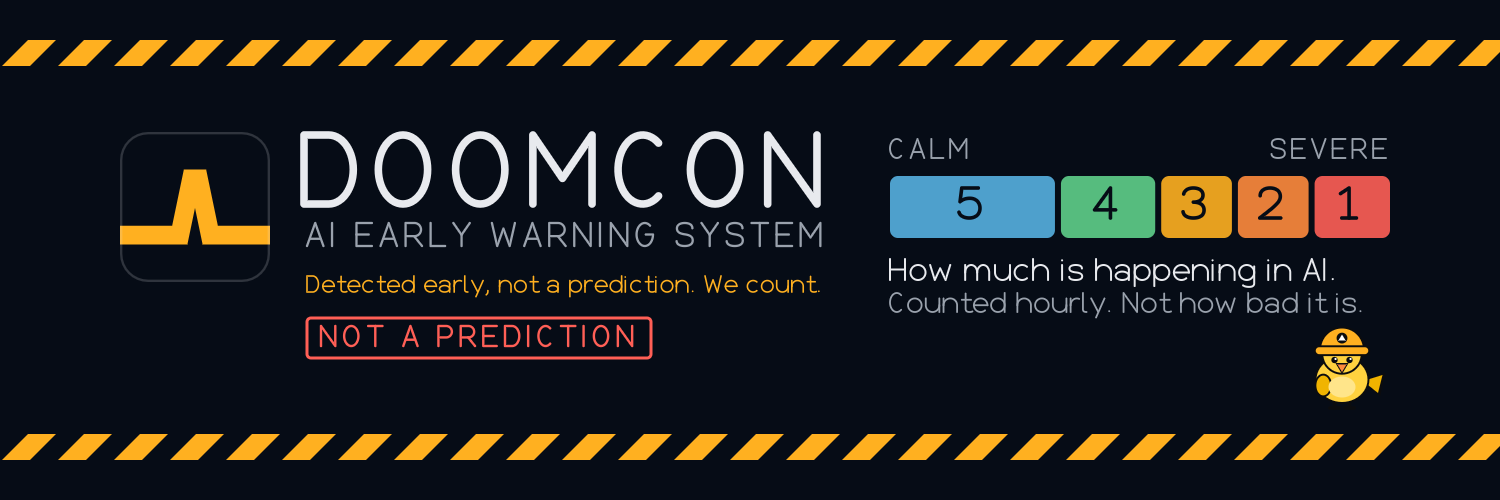
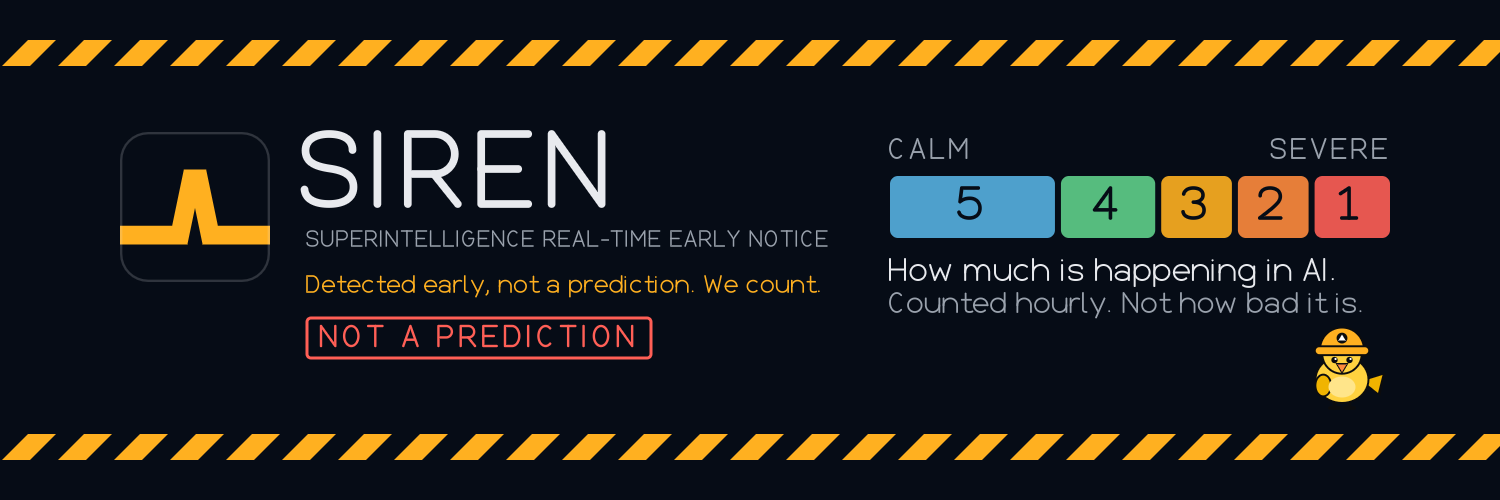
Rename the index to SIREN: Superintelligence Real-time Early Notice
The operator's choice. brand.NAME changes and every hard-coded copy of
the old name in the site, the collectors and the workflow commit
messages follows it. The publication line spells out the acronym, the
FAQ and the about page explain it and say plainly that the index does
not detect or forecast superintelligence, and the footer and README
carry 'formerly DOOMCON'. The web address, the repository name and the
X handle are unchanged.

Changed region(s): [[0.184, 0.24, 0.552, 0.51]]

diff --git a/site/static/bunker-kit.html b/site/static/bunker-kit.html
@@ -3,8 +3,8 @@
 <head>
 <meta charset="utf-8">
 <meta name="viewport" content="width=device-width, initial-scale=1, viewport-fit=cover">
-<title>Bunker Kit: 50 free online tools and an emergency gear checklist · DOOMCON</title>
-<meta name="description" content="A checklist of 50 free online tools for research, privacy, design, coding and PDFs, plus a crate of emergency gear: radio, water filter, power, maps. A DOOMCON field manual.">
+<title>Bunker Kit: 50 free online tools and an emergency gear checklist · SIREN</title>
+<meta name="description" content="A checklist of 50 free online tools for research, privacy, design, coding and PDFs, plus a crate of emergency gear: radio, water filter, power, maps. A SIREN field manual.">
 <link rel="preconnect" href="https://fonts.googleapis.com">
 <link rel="preconnect" href="https://fonts.gstatic.com" crossorigin>
 <link href="https://fonts.googleapis.com/css2?family=Anton&family=Inter+Tight:wght@400;600&family=JetBrains+Mono:wght@500;700&display=swap" rel="stylesheet">
@@ -86,7 +86,7 @@ footer{max-width:1040px;margin:0 auto;padding:0 20px 40px;color:var(--dim);font-
       <circle cx="50" cy="55" r="9" fill="#E8B923"/>
     </svg>
     <div>
-      <a class="back" href="./">Back to DOOMCON index</a>
+      <a class="back" href="./">Back to SIREN index</a>
       <h1>Bunker Kit</h1>
       <p>50 free tools to stockpile before the machines take the internet. Check off what you've packed. Plus one crate of gear that is not free.</p>
     </div>
@@ -107,8 +107,8 @@ footer{max-width:1040px;margin:0 auto;padding:0 20px 40px;color:var(--dim);font-
 <main id="manifest"></main>
 
 <footer>
-  <p>The 50 tools are free to start and run by third parties, not DOOMCON. Stamps mark real cautions; "signal unconfirmed" means the service has changed or may be offline. Verify before you rely on it.</p>
-  <p>The Supply drop crate is the exception: its links are paid Amazon links. As an Amazon Associate, DOOMCON earns from qualifying purchases. Listing there is not a review; read the product page before you buy.</p>
+  <p>The 50 tools are free to start and run by third parties, not SIREN. Stamps mark real cautions; "signal unconfirmed" means the service has changed or may be offline. Verify before you rely on it.</p>
+  <p>The Supply drop crate is the exception: its links are paid Amazon links. As an Amazon Associate, SIREN earns from qualifying purchases. Listing there is not a review; read the product page before you buy.</p>
 </footer>
 
 <script>
@@ -121,7 +121,7 @@ const CRATES = [
  {id:"signal", name:"Signal monitoring", why:"Know when the grid flickers, and where to go when an app dies."},
  {id:"morale", name:"Morale", why:"The apocalypse is long. Bring something to listen to."},
  {id:"paper", name:"Paperwork", why:"Even after the end of the world, someone will ask for a signed PDF."},
- {id:"supply", name:"Supply drop", why:"The one crate that costs money: physical gear, sold on Amazon. These are paid links. As an Amazon Associate, DOOMCON earns from qualifying purchases."}
+ {id:"supply", name:"Supply drop", why:"The one crate that costs money: physical gear, sold on Amazon. These are paid links. As an Amazon Associate, SIREN earns from qualifying purchases."}
 ];
 
 const TAG = "buyusa0d-20";

diff --git a/site/static/game.html b/site/static/game.html
@@ -3,8 +3,8 @@
 <head>
 <meta charset="utf-8">
 <meta name="viewport" content="width=device-width, initial-scale=1, viewport-fit=cover">
-<title>Tally Counts: the 30-second counting game · DOOMCON</title>
-<meta name="description" content="A 30-second game from DOOMCON. Count the signals, ignore the predictions. Tally the duty canary keeps score.">
+<title>Tally Counts: the 30-second counting game · SIREN</title>
+<meta name="description" content="A 30-second game from SIREN. Count the signals, ignore the predictions. Tally the duty canary keeps score.">
 <link rel="preconnect" href="https://fonts.googleapis.com">
 <link rel="preconnect" href="https://fonts.gstatic.com" crossorigin>
 <link href="https://fonts.googleapis.com/css2?family=Anton&family=Stardos+Stencil:wght@400;700&family=JetBrains+Mono:wght@400;600&display=swap" rel="stylesheet">
@@ -60,7 +60,7 @@ h1{font:400 clamp(2.6rem,12vw,4.2rem)/.95 var(--poster);text-transform:uppercase
 <body>
 <div class="tape" aria-hidden="true"></div>
 <div class="wrap">
-  <a class="back" href="./">Back to DOOMCON</a>
+  <a class="back" href="./">Back to SIREN</a>
   <h1>Tally Counts</h1>
   <p class="rules">Thirty seconds on the duty desk. Tap every <b style="color:var(--green)">signal</b> to count it: +1.
     Tap a <b style="color:var(--red)">prediction</b> and you lose 2, because we count and we do not predict. Signals you let go by cost nothing.</p>

diff --git a/README.md b/README.md
@@ -1,6 +1,8 @@
-# DOOMCON
+# SIREN
 
-[![DOOMCON](https://messagegabrielhere-lgtm.github.io/doomcon/badge.svg)](https://messagegabrielhere-lgtm.github.io/doomcon/)
+*Superintelligence Real-time Early Notice. Formerly DOOMCON; the repository and the web address keep the old name.*
+
+[![SIREN](https://messagegabrielhere-lgtm.github.io/doomcon/badge.svg)](https://messagegabrielhere-lgtm.github.io/doomcon/)
 
 **Live: https://messagegabrielhere-lgtm.github.io/doomcon/** · [verify the readings in your browser](https://messagegabrielhere-lgtm.github.io/doomcon/#vfy) · [method](https://messagegabrielhere-lgtm.github.io/doomcon/methodology.html)
 
